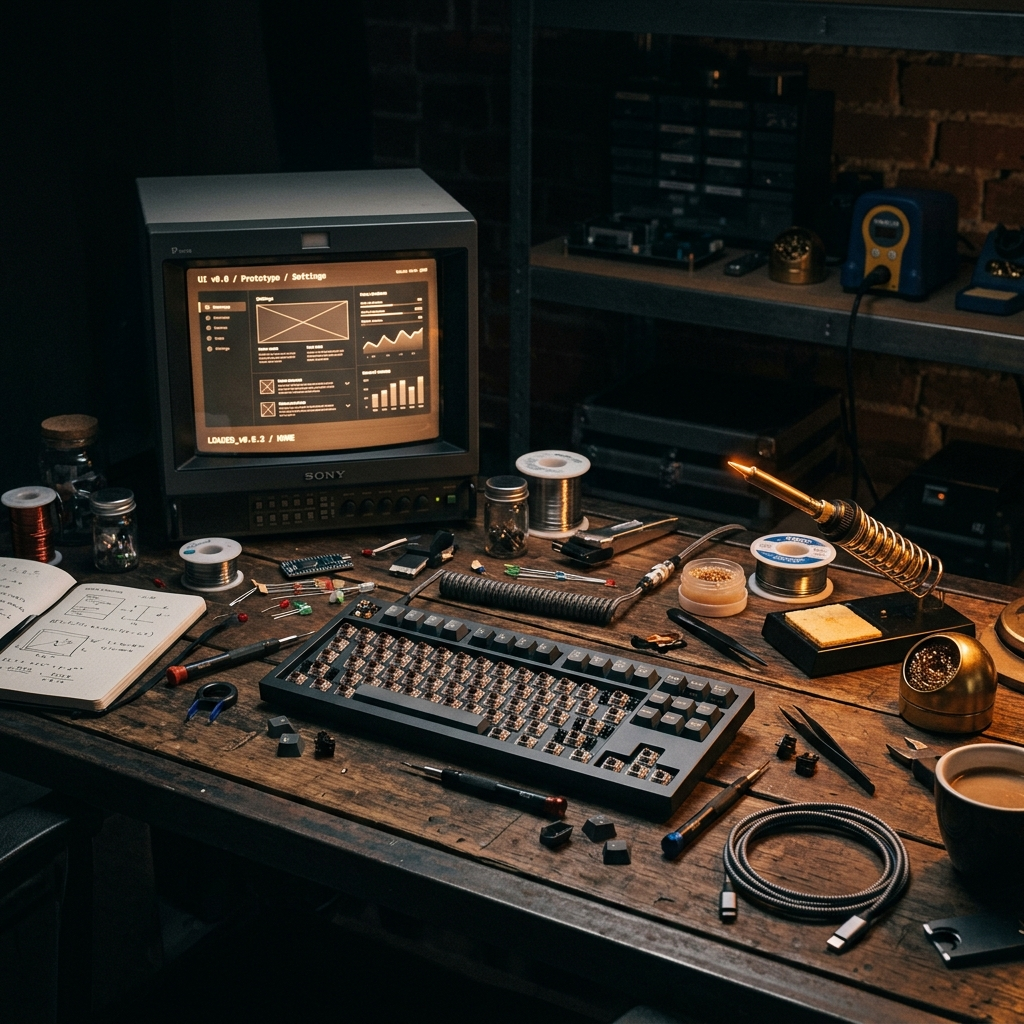
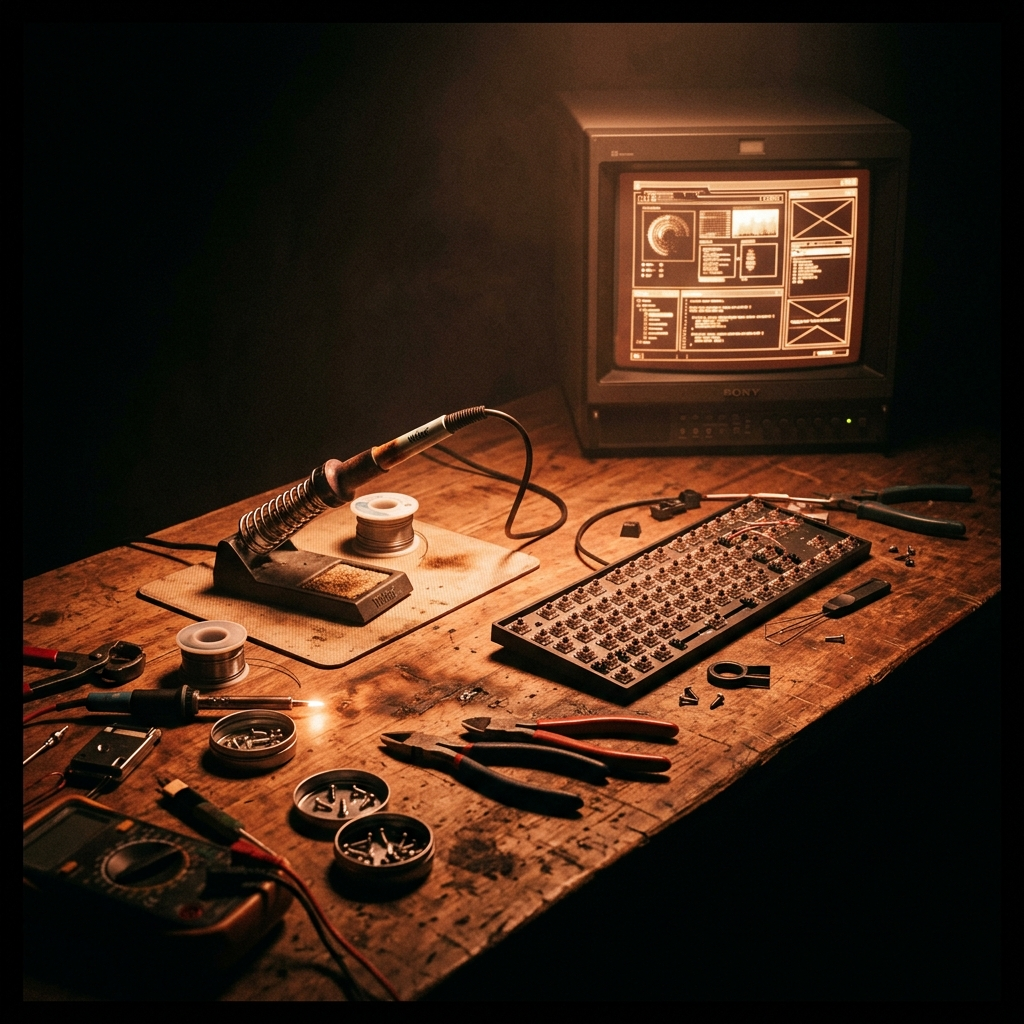
feat(creative-atelier): play real Veo evolution reel video
Motion panel now plays an actual MP4 (veo-evolution.mp4, 916K) when
the play button is pressed, instead of just toggling a CSS state on
the static portrait placeholder. The video element is mounted with
playsInline + muted + loop, and a ref drives play/pause synchronously
with the videoPlaying state so the UI and the underlying media stay
consistent.

Also includes:
- Updated illustration exports (01.png, desk-tinkering.png) — smaller
  file sizes from the most-recent Gemini render pass.
- screenshot.spec.js: local dev port bumped 3005 → 3007.

diff --git a/components/creative-atelier/CreativeAtelier.tsx b/components/creative-atelier/CreativeAtelier.tsx
@@ -1,6 +1,6 @@
 "use client";
 
-import { useEffect, useMemo, useState } from "react";
+import { useEffect, useMemo, useRef, useState } from "react";
 import Image from "next/image";
 
 /**
@@ -38,6 +38,7 @@ export function CreativeAtelier() {
   const [isPlaying, setIsPlaying] = useState<boolean>(false);
   const [currentTime, setCurrentTime] = useState<number>(102); // "01:42" starting point
   const [videoPlaying, setVideoPlaying] = useState<boolean>(false);
+  const videoRef = useRef<HTMLVideoElement | null>(null);
 
   const activeTrack = useMemo(
     () => TRACKS.find((t) => t.id === activeId) ?? TRACKS[0]!,
@@ -68,7 +69,19 @@ export function CreativeAtelier() {
   };
 
   const handleTogglePlay = () => setIsPlaying((p) => !p);
-  const handleToggleVideo = () => setVideoPlaying((p) => !p);
+  const handleToggleVideo = () => {
+    setVideoPlaying((p) => {
+      const next = !p;
+      if (videoRef.current) {
+        if (next) {
+          videoRef.current.play().catch(() => {});
+        } else {
+          videoRef.current.pause();
+        }
+      }
+      return next;
+    });
+  };
 
   const handlePrev = () => {
     const idx = TRACKS.findIndex((t) => t.id === activeId);
@@ -140,13 +153,26 @@ export function CreativeAtelier() {
           <article className="rt-creative__panel rt-creative__panel--motion">
             <div className="rt-creative__panel-art">
               <div className="rt-creative__video">
-                <Image
-                  src="/assets/portraits/05-mid-shot.png"
-                  alt=""
-                  width={1440}
-                  height={1920}
-                  sizes="(max-width: 720px) 100vw, (max-width: 1200px) 50vw, 33vw"
+                <video
+                  ref={videoRef}
+                  src="/assets/video/veo-evolution.mp4"
+                  playsInline
+                  muted
+                  loop
+                  preload="metadata"
+                  style={{
+                    display: videoPlaying ? "block" : "none",
+                  }}
                 />
+                {!videoPlaying && (
+                  <Image
+                    src="/assets/portraits/05-mid-shot.png"
+                    alt=""
+                    width={1440}
+                    height={1920}
+                    sizes="(max-width: 720px) 100vw, (max-width: 1200px) 50vw, 33vw"
+                  />
+                )}
                 <button
                   className={`rt-creative__play ${videoPlaying ? "is-playing" : ""}`}
                   aria-label={videoPlaying ? "pause Veo evolution reel" : "play Veo evolution reel"}

diff --git a/screenshot.spec.js b/screenshot.spec.js
@@ -3,8 +3,8 @@ const fs = require('fs');
 const path = require('path');
 
 const URLS = {
-  home: 'http://localhost:3005',
-  game: 'http://localhost:3005/technical/agent-game'
+  home: 'http://localhost:3007',
+  game: 'http://localhost:3007/technical/agent-game'
 };
 
 const VIEWPORTS = [